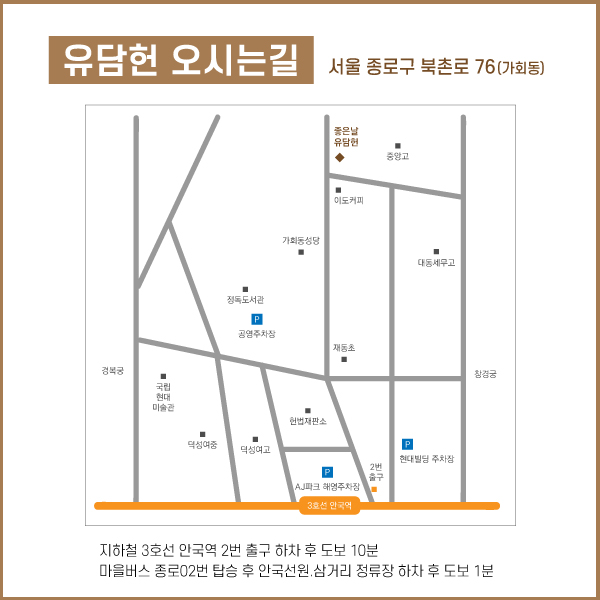
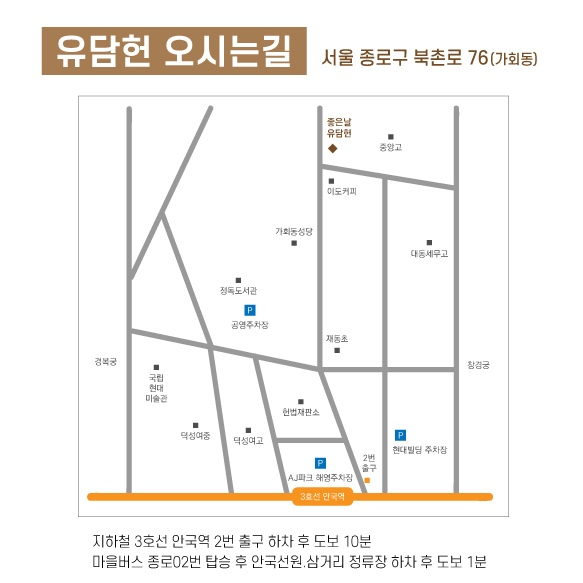
remove map border

Changed region(s): [[0.0, 0.0, 1.0, 1.0], [0.3087, 0.4322, 0.3396, 0.5249]]

diff --git a/index.html b/index.html
@@ -56,7 +56,7 @@
             <h1 class="tac content__title"><b>WEDDING</b> INVITATION</h1>
             <div class="con_txt fwb" style="font-size:0.9rem">
 		
-                Two young souls<br>seperated by a global pandemic<br>now joined together<br>by the union of marriage.<br><br>2017년 봄, 평생교육방법론 수업에서<br>평생을 함께할 단짝을 만났습니다.<br>5년이라는 시간 동안 떨어져 있던 날들이 더 많았지만<br>두텁게 쌓인 신뢰와 사랑으로 바탕으로<br>2022년 가을, 연인에서 가족이 되려 합니다.<br><br>작은 결혼식으로 진행되어 많은 분들을 자리에 모시지 못해 아쉬운 마음이 크지만<br> 멀리서나마 저희의 새로운 시작을 축하해 주신다면<br>더할 나위 없이 감사하겠습니다.
+                Two young souls<br>seperated by a global pandemic<br>now joined together<br>by the union of marriage.<br><br>2017년 봄, 평생교육방법론 수업에서<br>평생을 함께할 단짝을 만났습니다.<br>5년이라는 시간 동안 떨어져 있던 날들이 더 많았지만<br>두텁게 쌓인 신뢰와 사랑으로 바탕으로<br>2022년 가을, 연인에서 가족이 되려 합니다.<br><br>작은 결혼식으로 진행되어<br>많은 분들을 자리에 모시지 못해 아쉬운 마음이 크지만<br> 멀리서나마 저희의 새로운 시작을 축하해 주신다면<br>더할 나위 없이 감사하겠습니다.
             </div>
             <div class="con_txt_bottom_bg"></div>
             <div class="top_wrap_line"></div>
